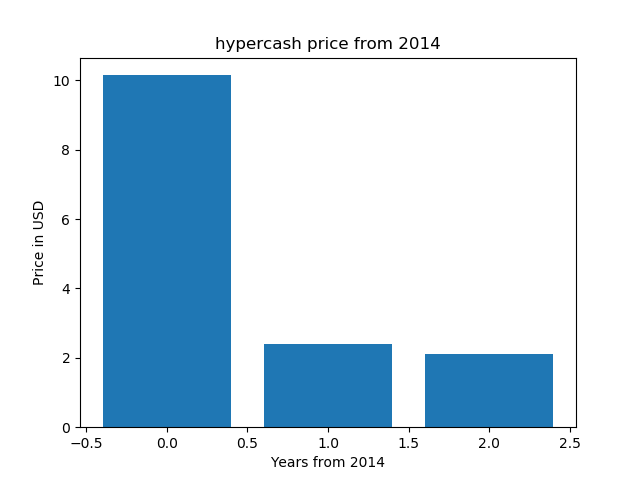
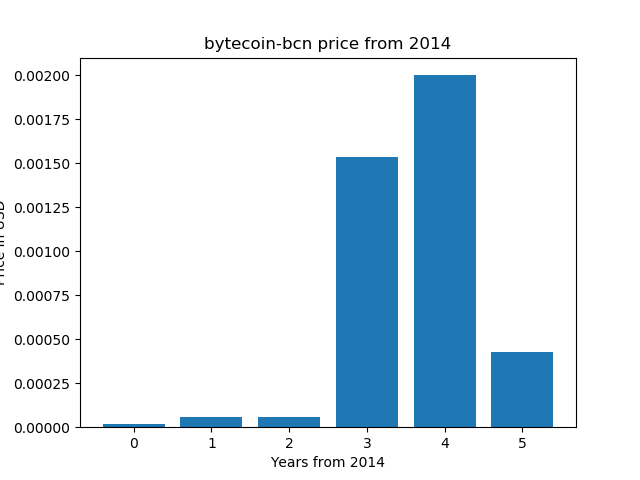
first commit

diff --git a/example.py b/example.py
@@ -10,7 +10,7 @@ from time import gmtime, strftime
 import matplotlib.pyplot as plt
 
 enddate = strftime("%Y%m%d", gmtime())
-r  = requests.get("https://coinmarketcap.com/currencies/hypercash/historical-data/?start=20140101&end={0}".format(enddate))
+r  = requests.get("https://coinmarketcap.com/currencies/bytecoin-bcn/historical-data/?start=20140101&end={0}".format(enddate))
 data = r.text
 
 soup = BeautifulSoup(data, "html.parser")
@@ -44,7 +44,7 @@ print(x)
 
 x = list(range(0, len(prices)))
 
-plt.title('hypercash price from 2014')
+plt.title('bytecoin-bcn price from 2014')
 plt.ylabel('Price in USD')
 plt.xlabel('Years from 2014')
 plt.bar(x, prices)

diff --git a/README.md b/README.md
@@ -1,6 +1,6 @@
-# hypercash price chart 
+# bytecoin-bcn price chart 
 
-hypercash price chart (matplotlib, python)
+bytecoin-bcn price chart (matplotlib, python)
 
 https://pythonprogramminglanguage.com
 
